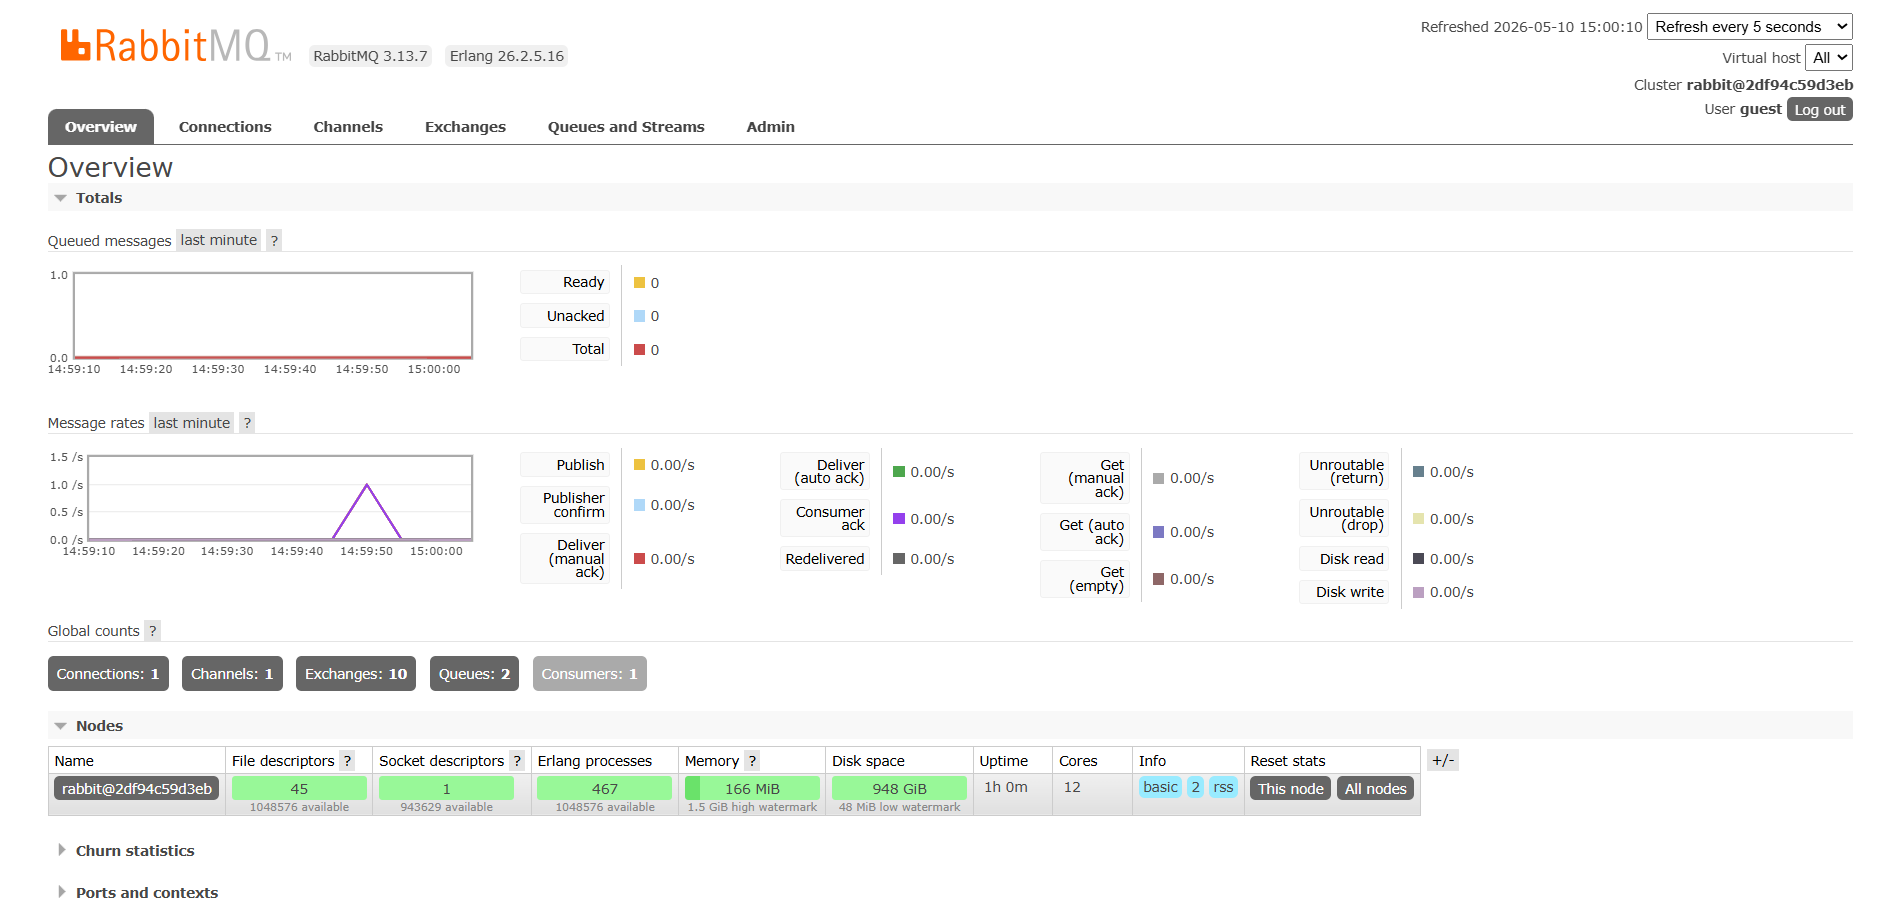
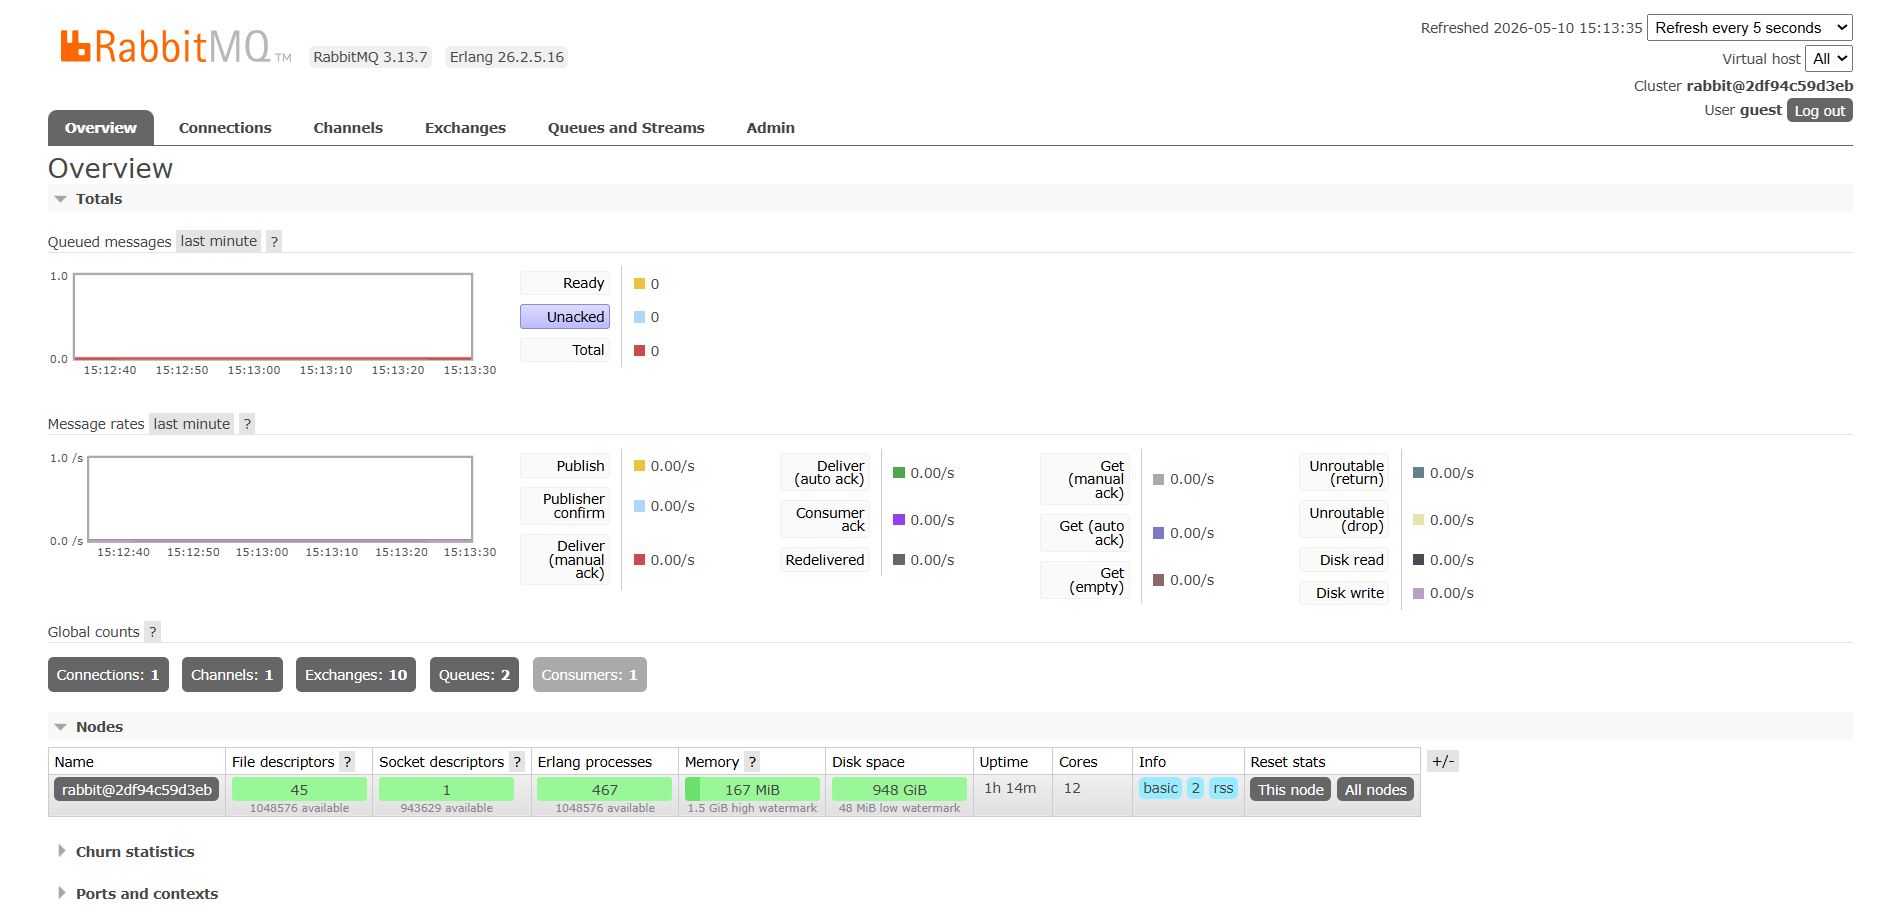
Monitoring chart based on publisher.

diff --git a/README.md b/README.md
@@ -33,3 +33,9 @@ Saya menjalankan subscriber terlebih dahulu agar program siap menerima event dar
 Pada dashboard RabbitMQ, terlihat ada koneksi, channel, queue, dan consumer yang aktif ketika subscriber dan publisher berkomunikasi melalui message broker. Hal ini menunjukkan bahwa RabbitMQ berhasil menjadi perantara antara publisher yang mengirim event dan subscriber yang menerima event.
 
 ![RabbitMQ while sending and processing event](tutorial8/publisher/images/rabbitmq-running-event.png)
+
+# Monitoring Chart Based on Publisher
+
+Saya menjalankan publisher beberapa kali ketika subscriber masih aktif, sehingga setiap eksekusi publisher mengirim lima event baru ke RabbitMQ. Pada dashboard RabbitMQ, aktivitas pengiriman dan pemrosesan event tersebut terlihat sebagai spike pada grafik `Message rates`, karena ada kenaikan singkat ketika message broker menerima pesan dari publisher dan mengirimkannya ke subscriber.
+
+![RabbitMQ message rate spikes after running publisher repeatedly](tutorial8/publisher/images/rabbitmq-running-with2spikes.png)
